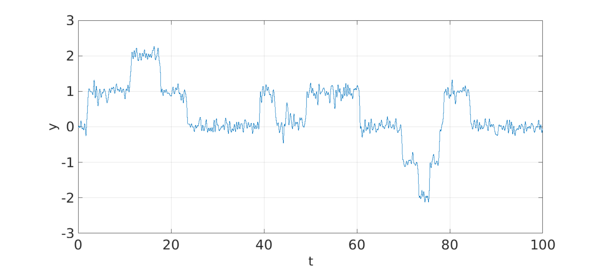
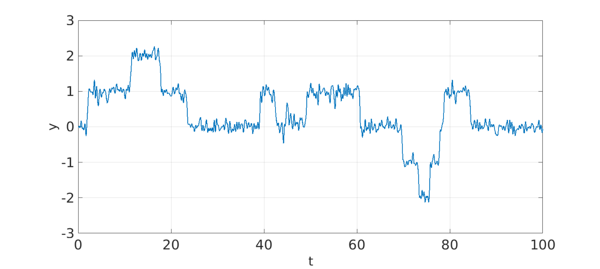
Publish example ode-random/LevelHopping.
This message was auto-generated by publish-example.sh.

diff --git a/examples/ode-random/LevelHopping.html b/examples/ode-random/LevelHopping.html
@@ -67,21 +67,21 @@ N = chebop(dom);
 lambda = 0.4; f = randnfun(lambda,dom,'norm');
 N.op = @(y) diff(y) + 2*sin(2*pi*y); N.lbc = 0;
 LW = 'linewidth'; FS = 'fontsize';
-y = N\f; plot(y,LW,0.7), grid on
+y = N\f; plot(y,LW,2), grid on
 xlabel('t',FS,32), ylabel('y',FS,32)</pre>
 
 <p><img src="img/LevelHopping_01.png" class="figure" alt=""></p>
 <p>Here we cut $\lambda$ in half.</p>
 <pre class="mcode-input">lambda = lambda/2;
 f = randnfun(lambda,dom,'norm');
-y = N\f; plot(y,LW,0.5), grid on
+y = N\f; plot(y,LW,1), grid on
 xlabel('t',FS,32), ylabel('y',FS,32)</pre>
 
 <p><img src="img/LevelHopping_02.png" class="figure" alt=""></p>
 <pre class="mcode-input">total_time_in_seconds = toc</pre>
 
 <pre class="mcode-output">total_time_in_seconds =
-  19.001832000000000
+  18.500097000000000
 </pre></div>
         </div>
     </div>

diff --git a/examples/ode-random/img/LevelHopping.html b/examples/ode-random/img/LevelHopping.html
@@ -12,16 +12,16 @@ N = chebop(dom);
 lambda = 0.4; f = randnfun(lambda,dom,'norm');
 N.op = @(y) diff(y) + 2*sin(2*pi*y); N.lbc = 0;
 LW = 'linewidth'; FS = 'fontsize';
-y = N\f; plot(y,LW,0.7), grid on
+y = N\f; plot(y,LW,2), grid on
 xlabel('t',FS,32), ylabel('y',FS,32)</pre><img src="img/LevelHopping_01.png" class="figure" alt="">
 
 Here we cut $\lambda$ in half.
 
 <pre class="mcode-input">lambda = lambda/2;
 f = randnfun(lambda,dom,'norm');
-y = N\f; plot(y,LW,0.5), grid on
+y = N\f; plot(y,LW,1), grid on
 xlabel('t',FS,32), ylabel('y',FS,32)</pre><img src="img/LevelHopping_02.png" class="figure" alt="">
 
 <pre class="mcode-input">total_time_in_seconds = toc</pre><pre class="mcode-output">total_time_in_seconds =
-  19.001832000000000
+  18.500097000000000
 </pre>

diff --git a/index.html b/index.html
@@ -269,5 +269,5 @@ plot(minx(1),minx(2),'.w')
     <script type="text/javascript" src="/js/config.js"></script>
     <script type="text/javascript" src="/js/jquery.flexslider-min.js"></script>
   </body>
-<!-- Compiled on Tuesday, 30 May 2017 at 21:44. -->
+<!-- Compiled on Tuesday, 30 May 2017 at 21:45. -->
 </html>

diff --git a/examples/ode-random/LevelHopping.m b/examples/ode-random/LevelHopping.m
@@ -17,14 +17,14 @@ N = chebop(dom);
 lambda = 0.4; f = randnfun(lambda,dom,'norm');
 N.op = @(y) diff(y) + 2*sin(2*pi*y); N.lbc = 0;
 LW = 'linewidth'; FS = 'fontsize';
-y = N\f; plot(y,LW,0.7), grid on
+y = N\f; plot(y,LW,2), grid on
 xlabel('t',FS,32), ylabel('y',FS,32)
 
 %%
 % Here we cut $\lambda$ in half.
 lambda = lambda/2;
 f = randnfun(lambda,dom,'norm');
-y = N\f; plot(y,LW,0.5), grid on
+y = N\f; plot(y,LW,1), grid on
 xlabel('t',FS,32), ylabel('y',FS,32)
 
 %%
